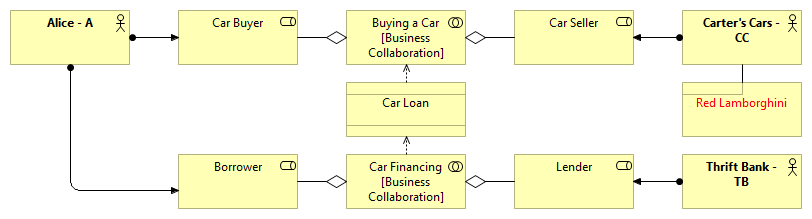
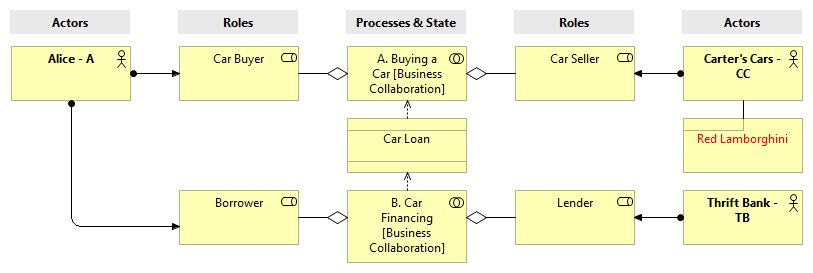
Added GSG-EA

diff --git a/python/doc/getting_started-enterpise.md b/python/doc/getting_started-enterpise.md
@@ -1,6 +1,6 @@
-# Indy Walkthrough
+# HyperLedger Indy Getting Started Guide for Entperprise Architects and Developers (GSG-E) 
 
-## A Developer Guide for Building Indy Clients Using Libindy
+## Table of Contents
 
 - [Indy Walkthrough](#indy-walkthrough)
     - [A Developer Guide for Building Indy Clients Using Libindy](#a-developer-guide-for-building-indy-clients-using-libindy)
@@ -25,6 +25,24 @@
 
 The original version of this document was from the 
 [Indy SDK](https://github.com/hyperledger/indy-sdk/blob/master/docs/getting-started/indy-walkthrough.md).
+
+## The Scenario: Alice Buys a Car
+
+TODO
+
+![Scenario Intro 1](images/0.0&#32;Scenario&#32;Intro&#32;1.png)
+
+TODO
+
+![Scenario Intro 2](images/0.0&#32;Scenario&#32;Intro&#32;2.png)
+
+TODO
+
+![Scenario Intro 3](images/0.0&#32;Scenario&#32;Intro&#32;3.png)
+
+TODO
+
+![Scenario Intro 14](images/0.0&#32;Scenario&#32;Intro&#32;4.png)
 
 ## What Indy and Libindy are and Why They Matter
 
